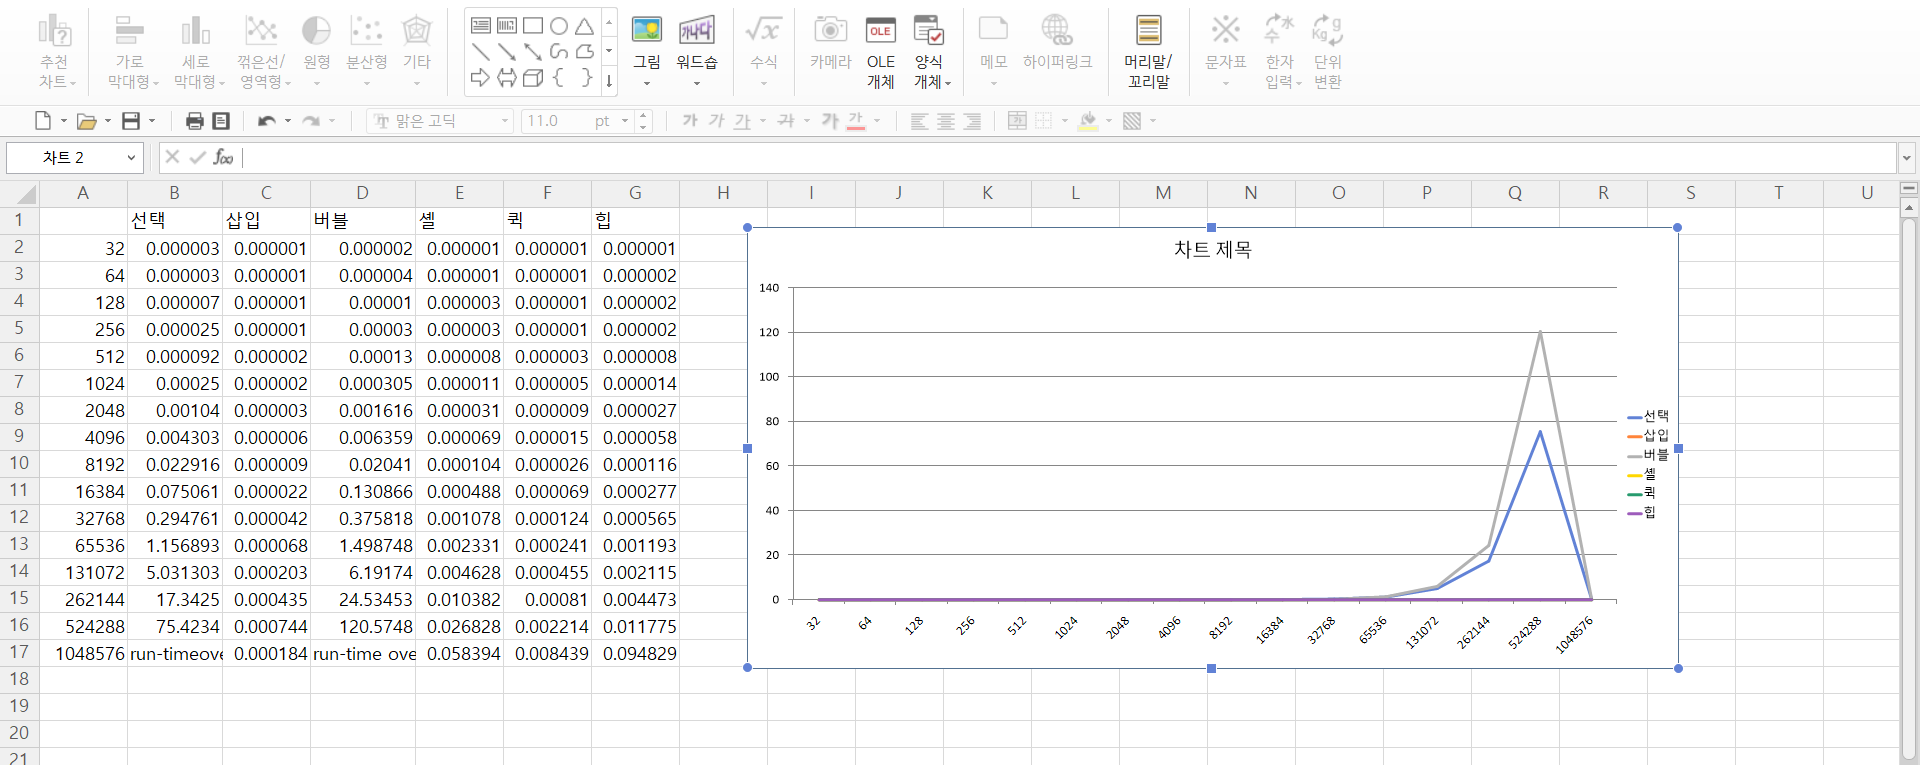
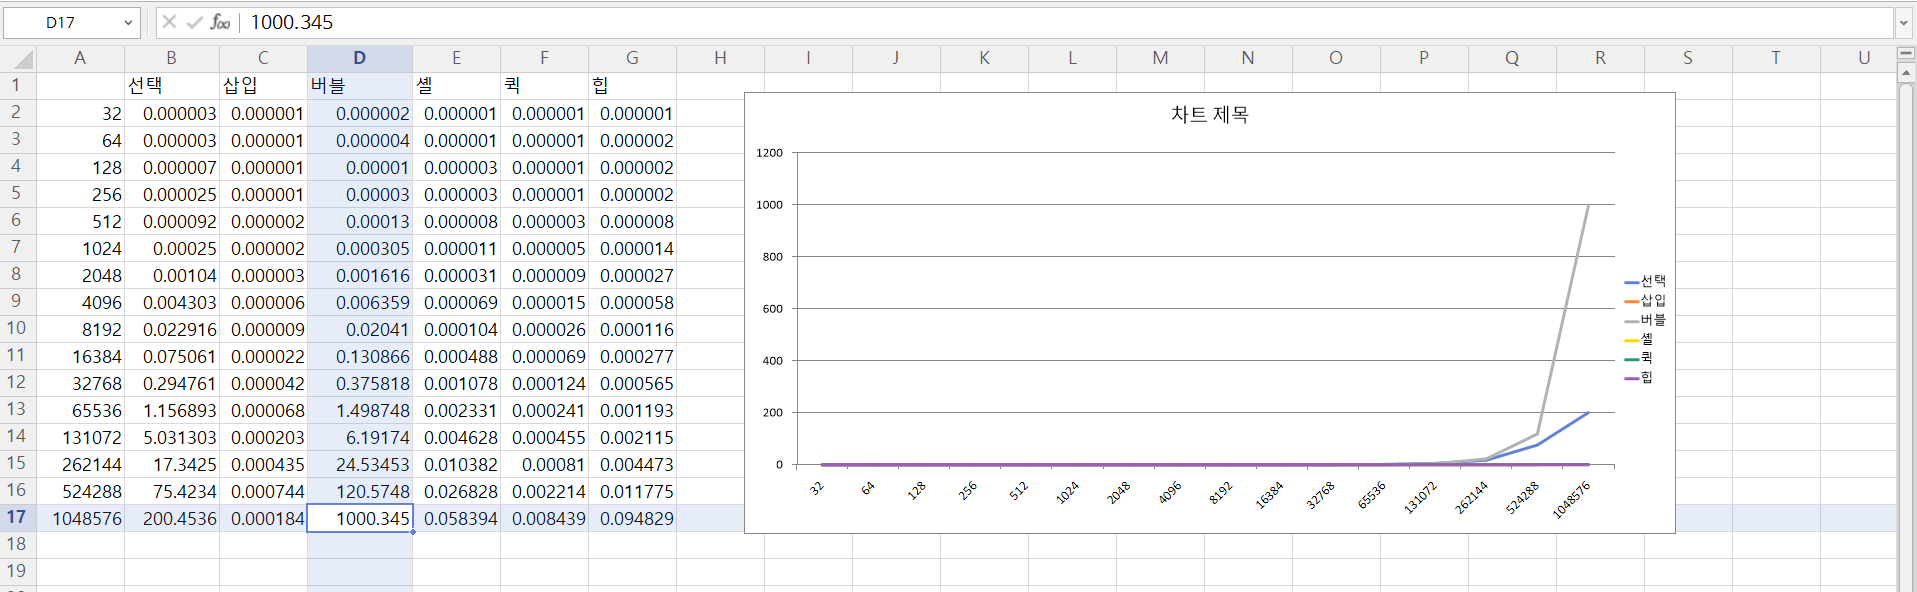
fix

diff --git a/README.md b/README.md
@@ -32,3 +32,4 @@
 ![logo](https://github.com/sunghyun0610/cpu-sorting/blob/main/reverse%EC%A0%95%EB%A0%AC.png)
 ## 3.배열이 정렬되어있을때 각 정렬 알고리즘들의 시간값 그래프(데이터:2^5~2^20)
 ![logo](https://github.com/sunghyun0610/cpu-sorting/blob/main/sorted%EC%A0%95%EB%A0%AC.png)
+<br> run-time-over값은 그래포 모양관계로 임의로 큰숫자를 부여했다.
